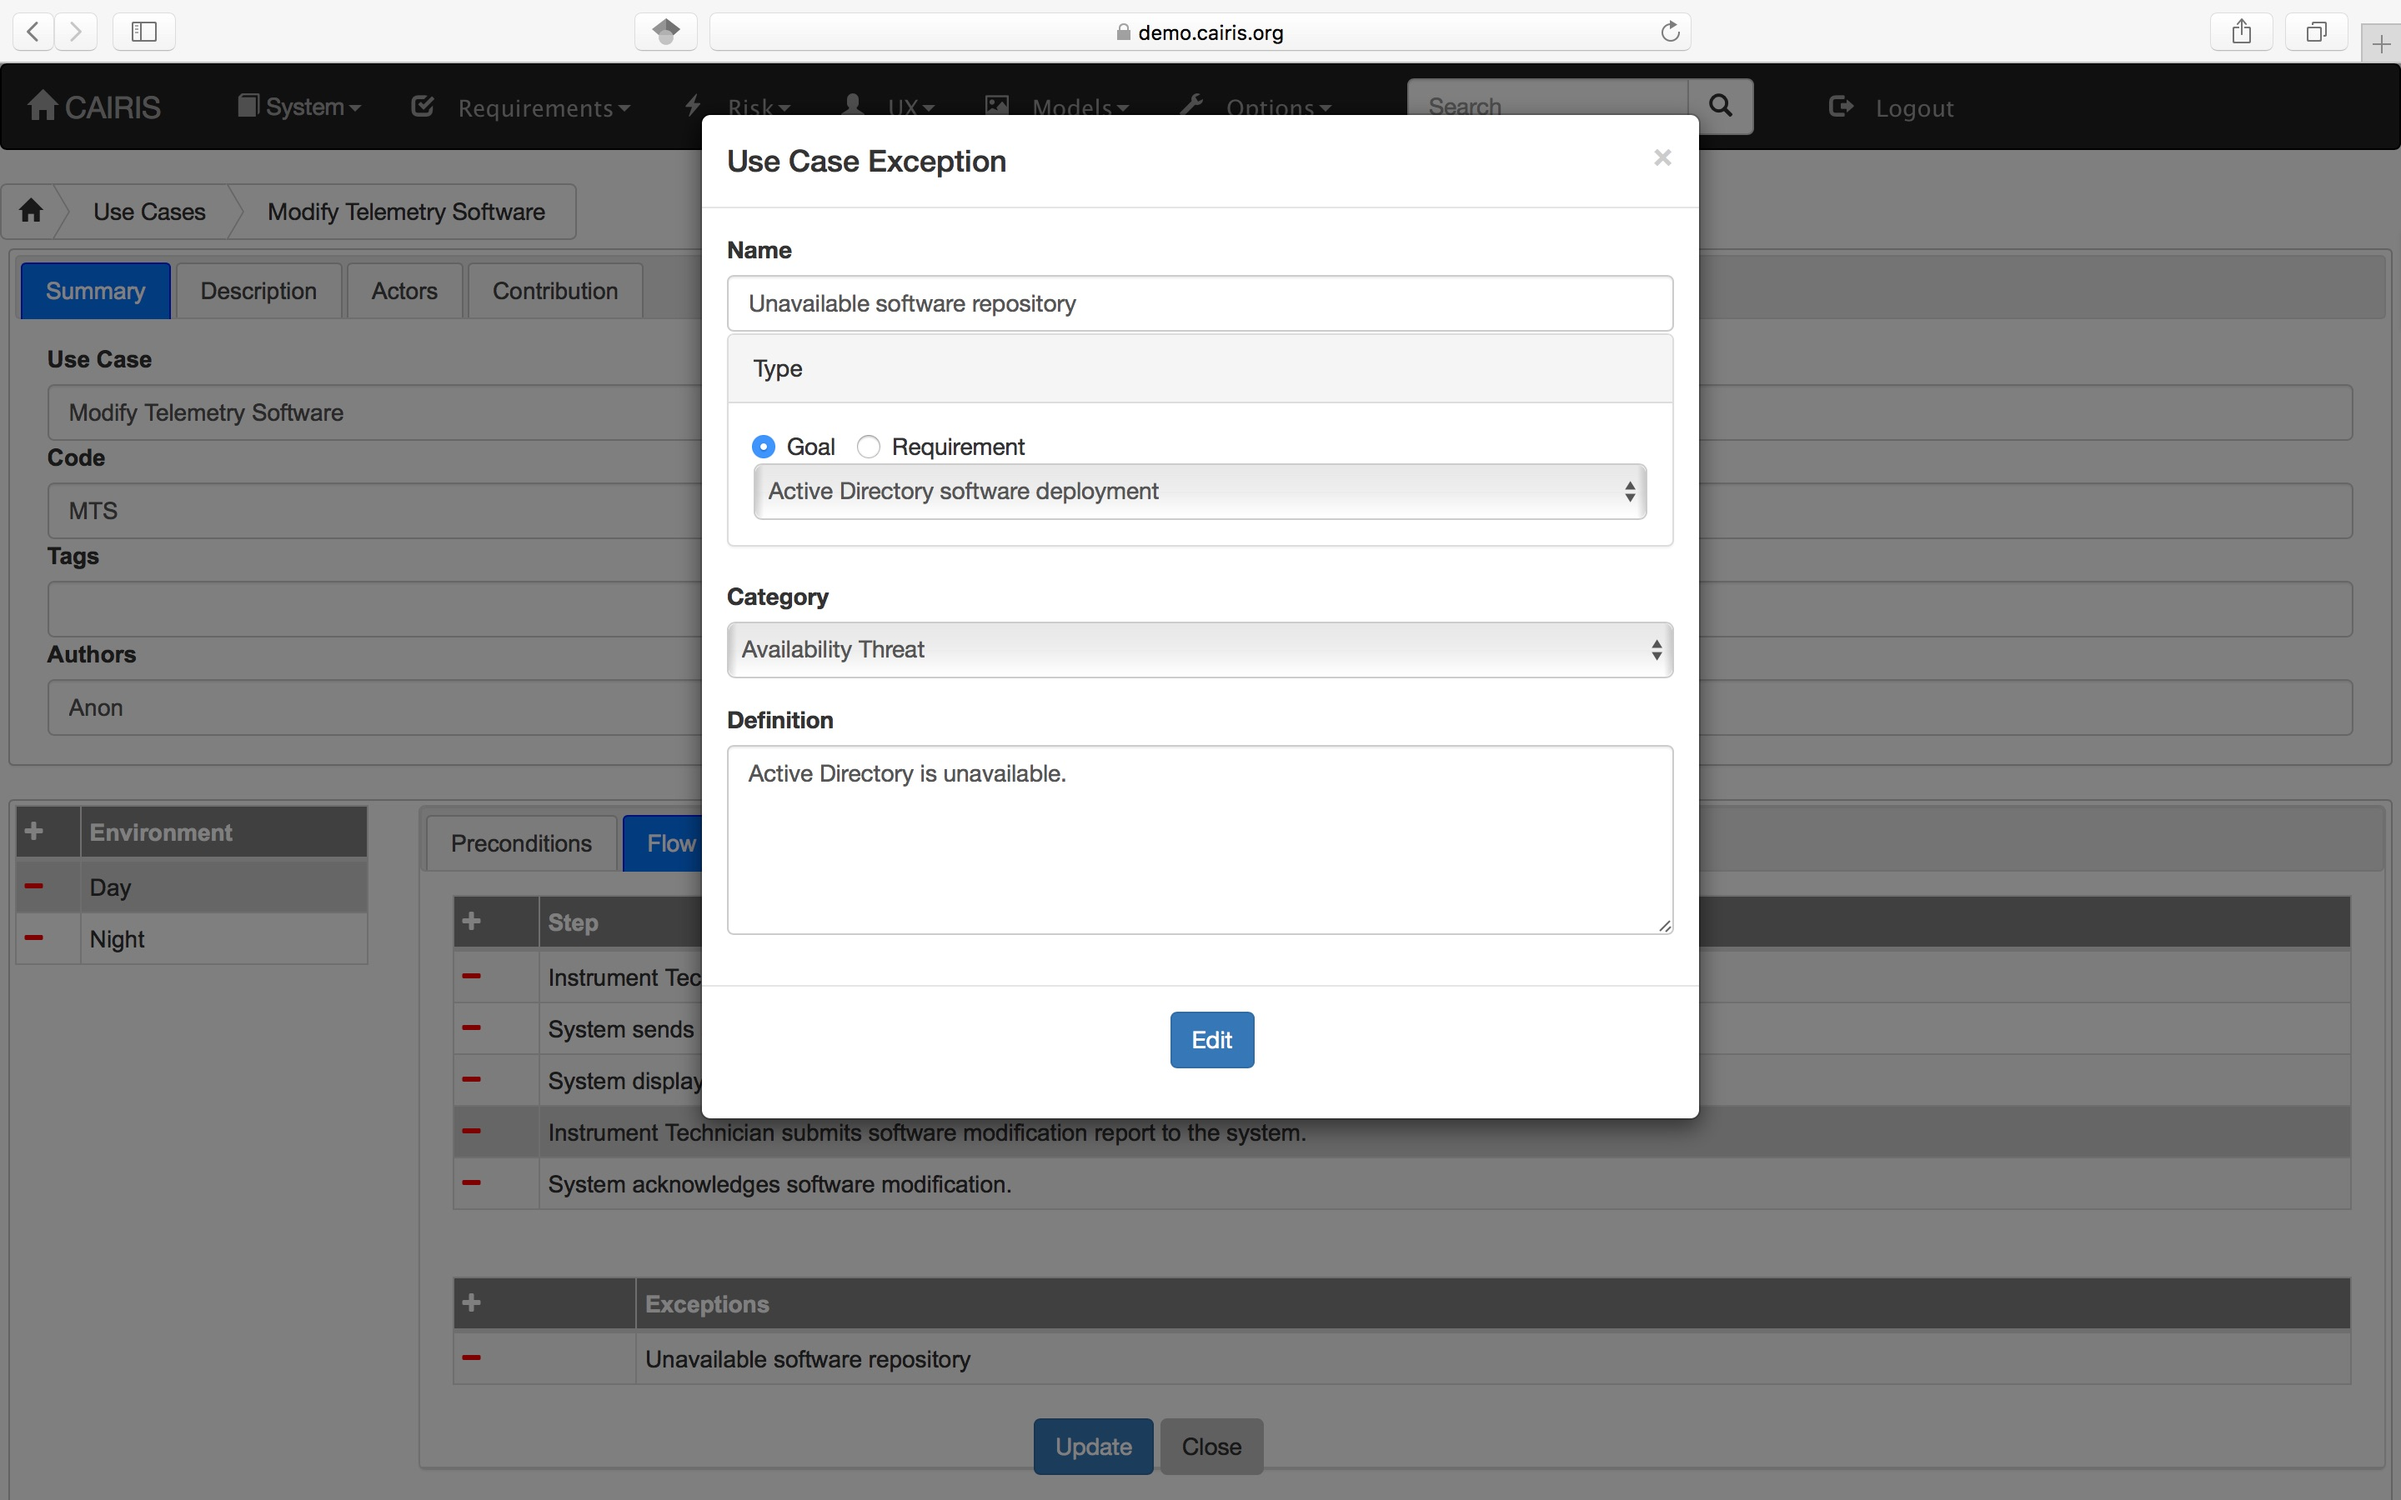
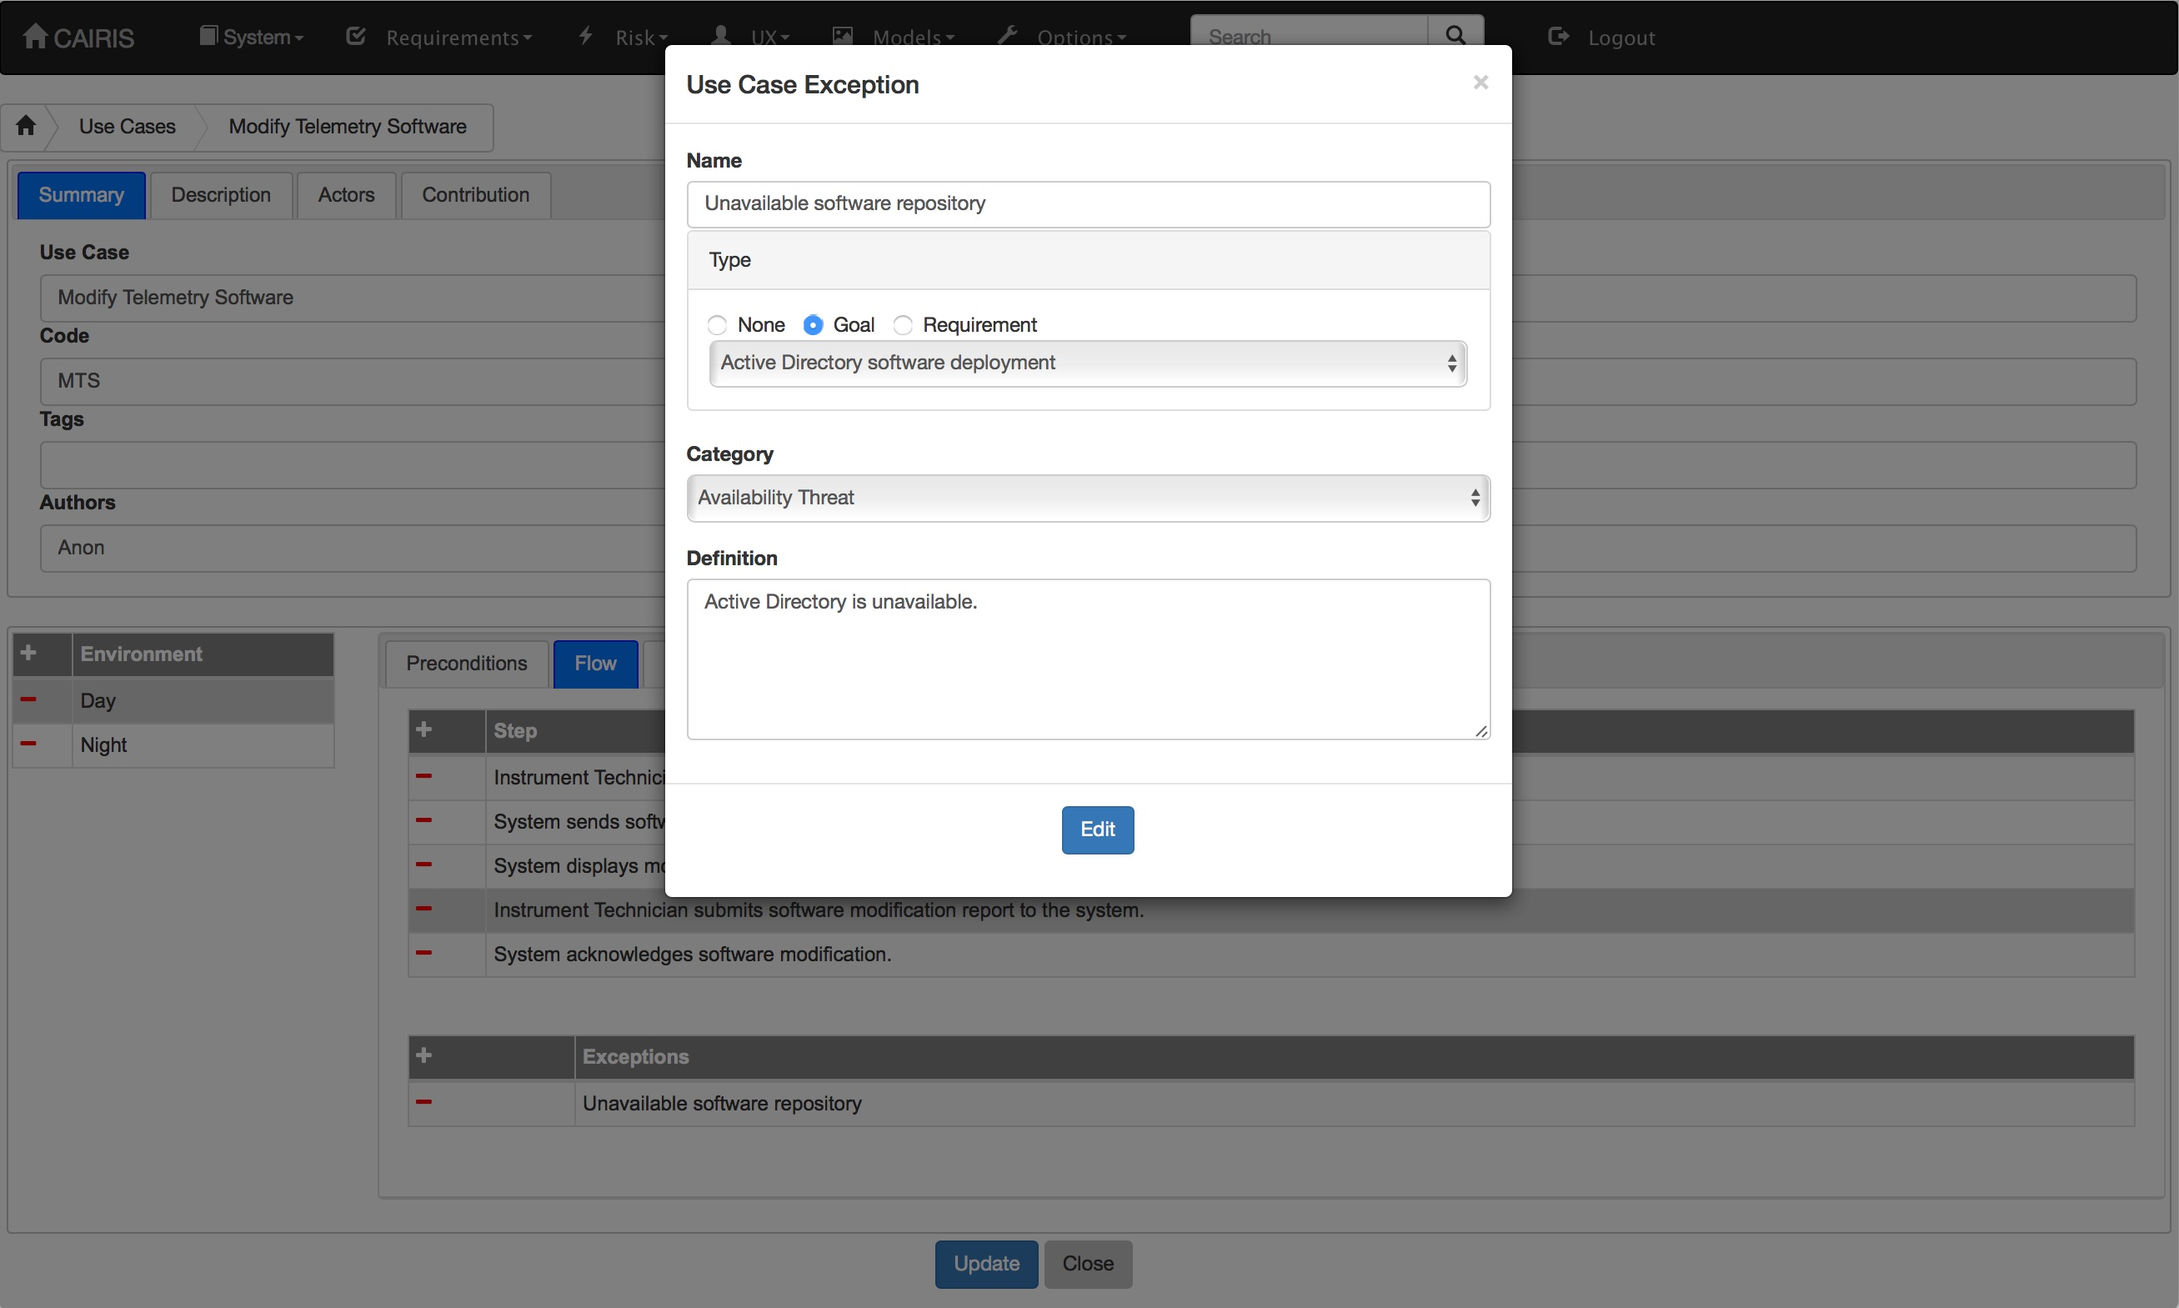
Fix #297

diff --git a/cairis/web/dist/js/cairis/usecases.js b/cairis/web/dist/js/cairis/usecases.js
@@ -189,9 +189,10 @@ mainContent.on("click",".usecaseEnvironment", function () {
             }
           }
         });
-        $.each(env.theSteps[i].theExceptions,function(idx,exc){
-          appendUseCaseStepException(exc.theName);
-        });
+        $("#theSteps").find(".usecase-step:first").trigger('click');
+        //$.each(env.theSteps[i].theExceptions,function(idx,exc){
+        //  appendUseCaseStepException(exc.theName);
+        //});
       }
       $("#useCaseProperties").show("fast");
     }
@@ -204,9 +205,12 @@ function generateObstacleFromException(exceptionIdx) {
   var envName = $.session.get('usecaseEnvironmentName');
   $.each(uc.theEnvironmentProperties, function (index, env) {
     if(env.theEnvironmentName == envName){
+      var exc = env.theSteps[stepIdx].theExceptions[exceptionIdx];
+      if (exc.theDimensionType == 'none') {
+        alert('Cannot generate an obstacle for this step without a related goal or requirement');
+        return;
+      }
       var stepTxt = env.theSteps[stepIdx].theStepText;
-      var excTxt = env.theSteps[stepIdx].theExceptions[exceptionIdx].theName;
-
       var output = {};
       output.object = uc;
       output.session_id = $.session.get('sessionID');
@@ -221,7 +225,7 @@ function generateObstacleFromException(exceptionIdx) {
         processData: false,
         origin: serverIP,
         data: output,
-        url: serverIP + "/api/usecases/environment/" + encodeURIComponent(envName) + "/step/" + encodeURIComponent(stepTxt) + "/exception/" + encodeURIComponent(excTxt) + "/generate_obstacle?session_id=" + $.session.get('sessionID'),
+        url: serverIP + "/api/usecases/environment/" + encodeURIComponent(envName) + "/step/" + encodeURIComponent(stepTxt) + "/exception/" + encodeURIComponent(exc.theName) + "/generate_obstacle?session_id=" + $.session.get('sessionID'),
         success: function (data) {
           showPopup(true);
         },
@@ -654,13 +658,16 @@ mainContent.on('shown.bs.modal','#useCaseStepExceptionDialog',function() {
         $('#theExceptionName').val(currentExc.theName);
         $('#theExceptionDefinition').val(currentExc.theDescription);
         $('#theExceptionCategory').val(currentExc.theCategoryName);
-        if (currentExc.theDimensionType == 'goal') {
+        if (currentExc.theDimensionType == 'none') {
+          $($('#theExceptionTypeNoneRadioLabel').children()[0]).prop('checked','checked')
+        }
+        else if (currentExc.theDimensionType == 'goal') {
           $($('#theExceptionTypeGoalRadioLabel').children()[0]).prop('checked','checked')
         }
         else {
           $($('#theExceptionTypeRequirementRadioLabel').children()[0]).prop('checked','checked')
         }
-        refreshExceptionTypeValues(currentExc.theDimensionType,currentExc.theDimensionValue);
+        refreshExceptionTypeValues(currentExc.theDimensionType.toLowerCase(),currentExc.theDimensionValue);
       }
     });
   }
@@ -669,8 +676,8 @@ mainContent.on('shown.bs.modal','#useCaseStepExceptionDialog',function() {
     $('#theExceptionName').val('');
     $('#theExceptionDefinition').val('');
     $('#theExceptionCategory').val('Confidentiality Threat');
-    $($('#theExceptionTypeGoalRadioLabel').children()[0]).prop('checked','checked')
-    refreshExceptionTypeValues('goal');
+    $($('#theExceptionTypeNoneRadioLabel').children()[0]).prop('checked','checked')
+    refreshExceptionTypeValues('none');
   }
 });
 
@@ -682,6 +689,14 @@ mainContent.on('change','input:radio[name="theExceptionTypeRadio"]',function() {
 function refreshExceptionTypeValues(excType,excTypeValue) {
   var uc = JSON.parse($.session.get("UseCase"));
   var urlPrefix = '/api/usecases/name/' + encodeURIComponent(uc.theName);
+  
+  if (excType == 'none') {
+    $('#theExceptionTypeValues').empty();
+    $('#exceptionValues').hide();
+    $('#exceptionCategories').hide();
+    return;
+  }
+
   if (excType == 'goal') {
     var envName = $.session.get('usecaseEnvironmentName');
     urlPrefix += '/environment/' + encodeURIComponent(envName) + '/goals'
@@ -690,18 +705,33 @@ function refreshExceptionTypeValues(excType,excTypeValue) {
     urlPrefix += '/requirements'
   }
   refreshSpecificSelector($('#theExceptionTypeValues'),urlPrefix,function() {
+    if ($('#theExceptionTypeValues').is(':empty')) {
+      $($('#theExceptionTypeNoneRadioLabel').children()[0]).prop('checked','checked')
+      $('#exceptionValues').hide();
+      $('#exceptionCategories').hide();
+      alert('No ' + excType + 's associated with this usecase');
+      return;
+    }
+    $('#exceptionValues').show();
+    $('#exceptionCategories').show();
     if (excTypeValue != undefined) {
       $('#theExceptionTypeValues').val(excTypeValue);
     }
-  },['All'],excType);
+  });
 };
 
 mainContent.on('click',"#AddStepExceptionButton", function() {
   var exc = {};
   exc.theName = $('#theExceptionName').val();
   exc.theDimensionType = $('input:radio[name="theExceptionTypeRadio"]:checked').parent().text().toLowerCase();
-  exc.theDimensionValue = $('#theExceptionTypeValues').val();
-  exc.theCategoryName = $('#theExceptionCategory').val();
+  if (exc.theDimensionType == 'none') {
+    exc.theDimensionValue = 'None';
+    exc.theCategoryName = 'None';
+  }
+  else {
+    exc.theDimensionValue = $('#theExceptionTypeValues').val();
+    exc.theCategoryName = $('#theExceptionCategory').val();
+  }
   exc.theDescription = $('#theExceptionDefinition').val();
 
   var stepIdx = $('#theSteps').find('.active').index();

diff --git a/cairis/web/fastTemplates/editUseCaseOptions.html b/cairis/web/fastTemplates/editUseCaseOptions.html
@@ -221,13 +221,16 @@
         <div class="form-group panel panel-default">
           <div class="panel-heading">Type</div>
           <div class="panel-body">
+            <label id="theExceptionTypeNoneRadioLabel" class="radio-inline control-label"><input type="radio" name="theExceptionTypeRadio" selected>None</label>
             <label id="theExceptionTypeGoalRadioLabel" class="radio-inline control-label"><input type="radio" name="theExceptionTypeRadio" selected>Goal</label>
             <label id="theExceptionTypeRequirementRadioLabel" class="radio-inline control-label"><input type="radio" name="theExceptionTypeRadio">Requirement</label>
             </br>
-            <select name="theExceptionTypeValues" class="form-control" id="theExceptionTypeValues"></select>
+            <div id="exceptionValues">
+              <select name="theExceptionTypeValues" class="form-control" id="theExceptionTypeValues"></select>
+            </div>
           </div>
         </div>
-        <div class="form-group">
+        <div class="form-group" id="exceptionCategories">
           <label for="theExceptionCategory" class="control-label">Category</label>
           <select name="TheExceptionCategory" class="form-control" id="theExceptionCategory">
             <option value="Confidentiality Threat">Confidentiality Threat</option>

diff --git a/cairis/web/dist/js/cairis/Cairis.js b/cairis/web/dist/js/cairis/Cairis.js
@@ -877,8 +877,8 @@ function refreshSpecificSelector(sBox,urlPrefix,callback,filterList,dimName) {
     success: function (data) {
       data.sort();
       sBox.empty();
-      sBox.append("<option>All</option>");
       if (filterList != undefined) {
+        sBox.append("<option>All</option>");
         data = data.filter(x => filterList.indexOf(x) < 0);
       }
       if (data.length == 0 && filterList != undefined && dimName != undefined) {

diff --git a/cairis/mio/GoalsContentHandler.py b/cairis/mio/GoalsContentHandler.py
@@ -288,8 +288,15 @@ class GoalsContentHandler(ContentHandler,EntityResolver):
     elif name == 'exception':
       self.theExcName = attrs['name']
       self.theExcType = attrs['type']
-      self.theExcValue = attrs['value']
-      self.theExcCat = u2s(attrs['category'])
+      if (self.theExcType == 'None'):
+        self.theExcValue = 'None'
+        self.theExcCat = 'None'
+      else: 
+        try: 
+          self.theExcValue = attrs['value']
+          self.theExcCat = u2s(attrs['category'])
+        except KeyError:
+          raise ARMException('Exception ' + self.theExcName + ' has a goal or requirement exception type but no related goal/requirement name or exception category')
     elif name == 'countermeasure':
       self.theName = attrs['name']
       self.theType = attrs['type']
@@ -385,7 +392,7 @@ class GoalsContentHandler(ContentHandler,EntityResolver):
       self.theRequirements.append((r,self.theReference,self.theReferenceType))
       self.resetRequirementAttributes()
     elif name == 'exception':
-      self.theCurrentStep.addException((self.theExcName,self.theExcType,self.theExcValue,self.theExcCat,unescape(self.theDefinition)))
+      self.theCurrentStep.addException((self.theExcName,self.theExcType.lower(),self.theExcValue,self.theExcCat,unescape(self.theDefinition)))
     elif name == 'step':
       self.theCurrentStep.setTags(self.theTags)
       self.theSteps.append(self.theCurrentStep)

diff --git a/docs/usecases.rst b/docs/usecases.rst
@@ -40,10 +40,10 @@ Add exceptions to use case steps
 
 -  In the Use Case Step Exception dialog, enter the name of the exception, the category of threat, vulnerability, or usability conflict associated with this exception, and a definition of the exception.
 
--  Select the goal or requirement that this step conflicts with.  Goals are visible only if you have added a sub-goal refinement relationship between goals and this use case.  Requirements are visible only if you have added a manual 'Supported by' traceability link between requirements and this use case.
+-  Select the goal or requirement that this step conflicts with, otherwise select the None radio button.  Goals are visible only if you have added a sub-goal refinement relationship between goals and this use case.  Requirements are visible only if you have added a manual 'Supported by' traceability link between requirements and this use case.
 
 -  Click Add to add the exception to the Exceptions table.
 
 -  Existing exceptions can be modified by double clicking on the step in the Exceptions table, making the necessary changes, and clicking on the Update button.
 
--  To generate an Obstacle based on this exception, right click on the exception entry in this table, and select Generate Obstacle from the speed menu.
+-  If the exception is associated with a goal or requirement then, to generate an Obstacle based on this exception, right click on the exception entry in this table, and select Generate Obstacle from the speed menu.

diff --git a/docs/validation.rst b/docs/validation.rst
@@ -19,6 +19,7 @@ Check                             Description
 ================================= ======================================================================================================
 Composition/Aggregation Integrity For Hardware/Software/Information assets, checks head asset integrity isn't lower than the tail asset.
 New risk contexts                 Risks present in environments that haven't been accounted for.
+Uncovered exception               Exception present in use case without a related obstacle.
 ================================= ======================================================================================================
 
 
